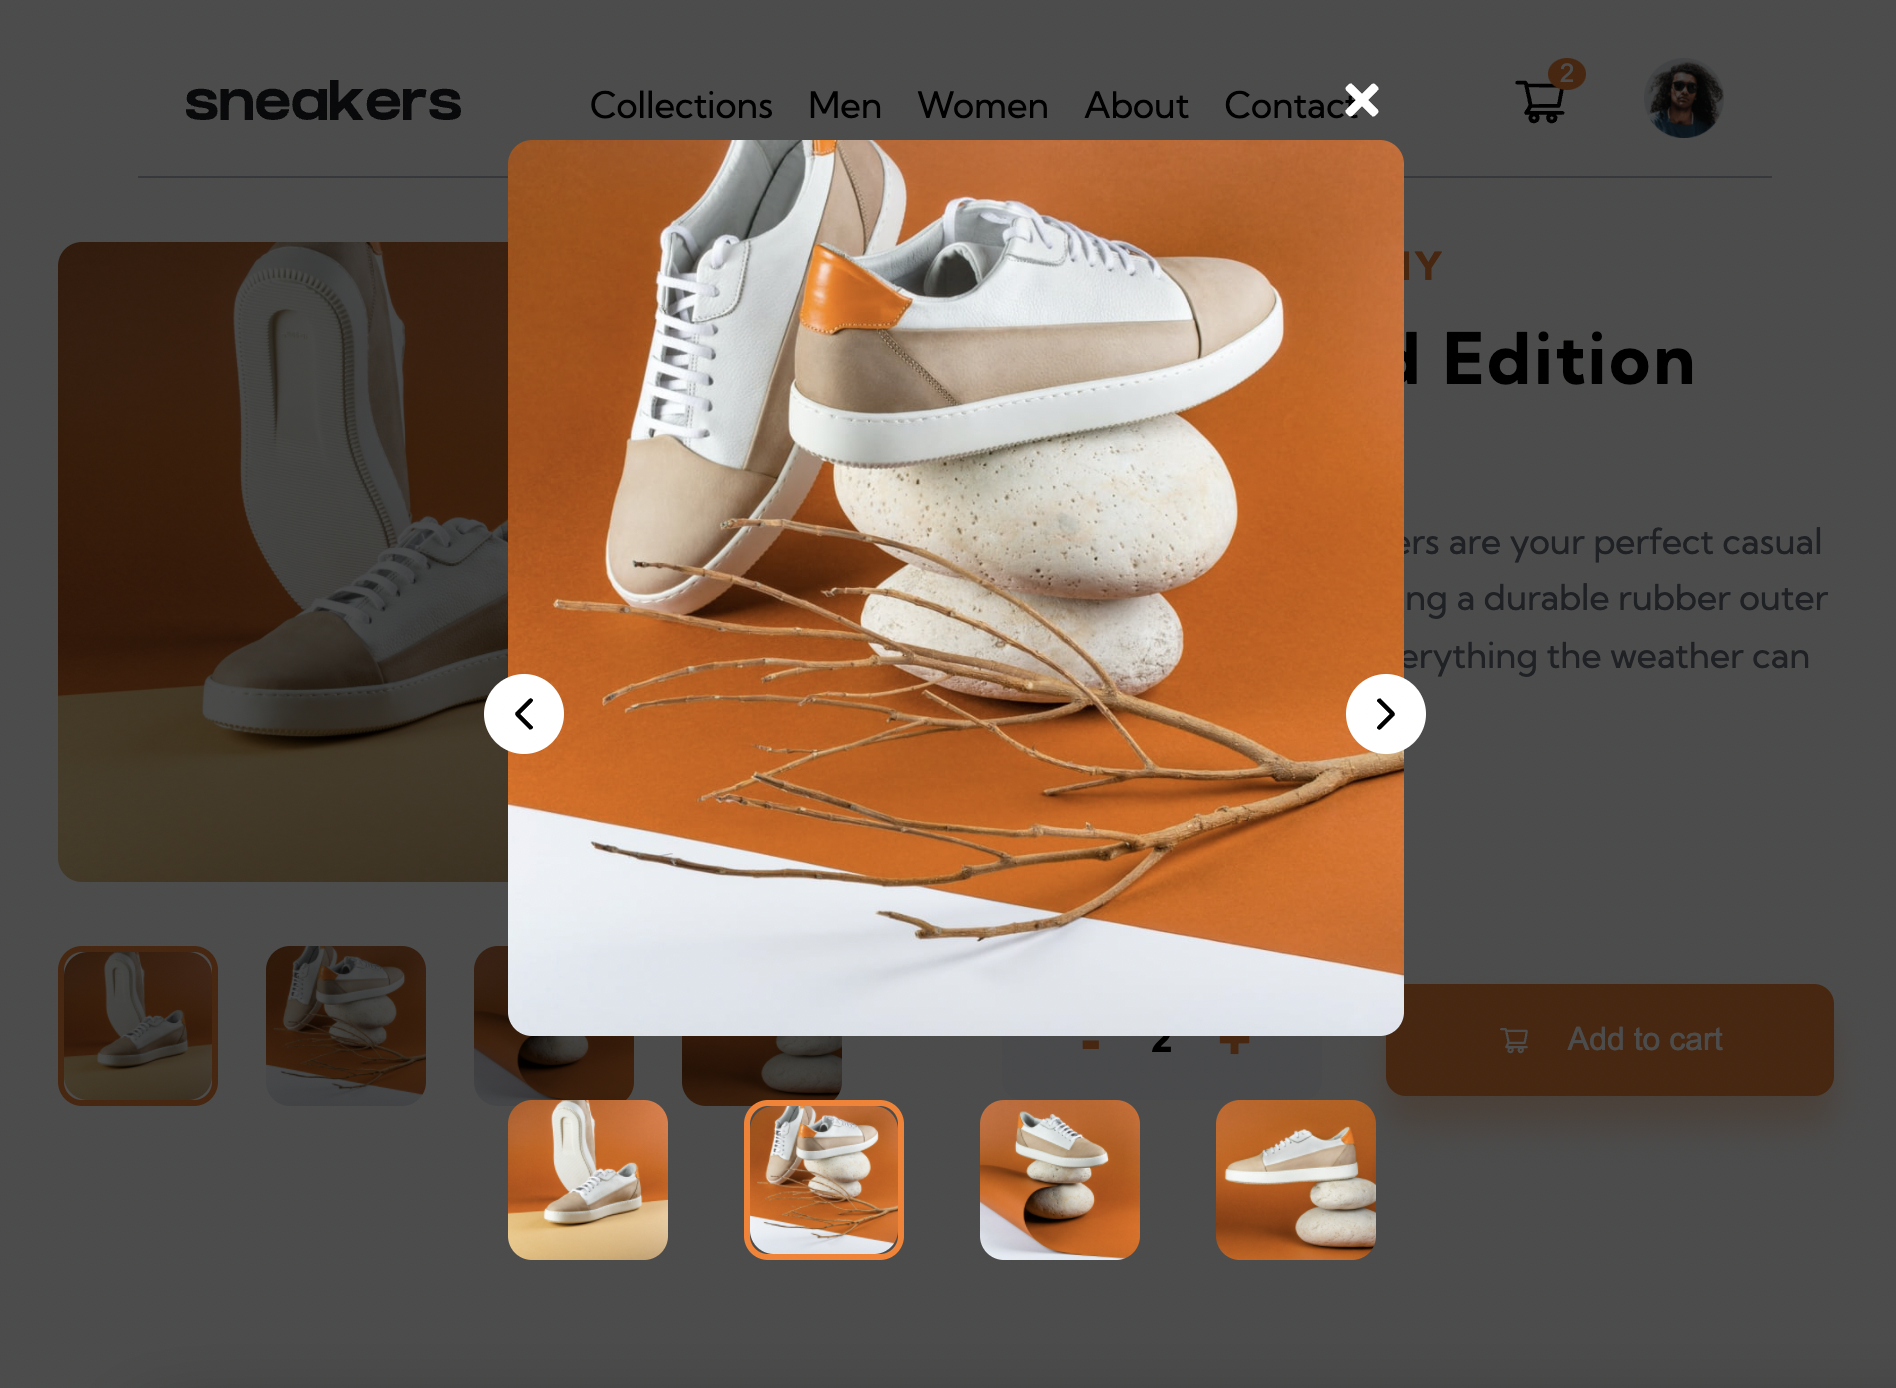
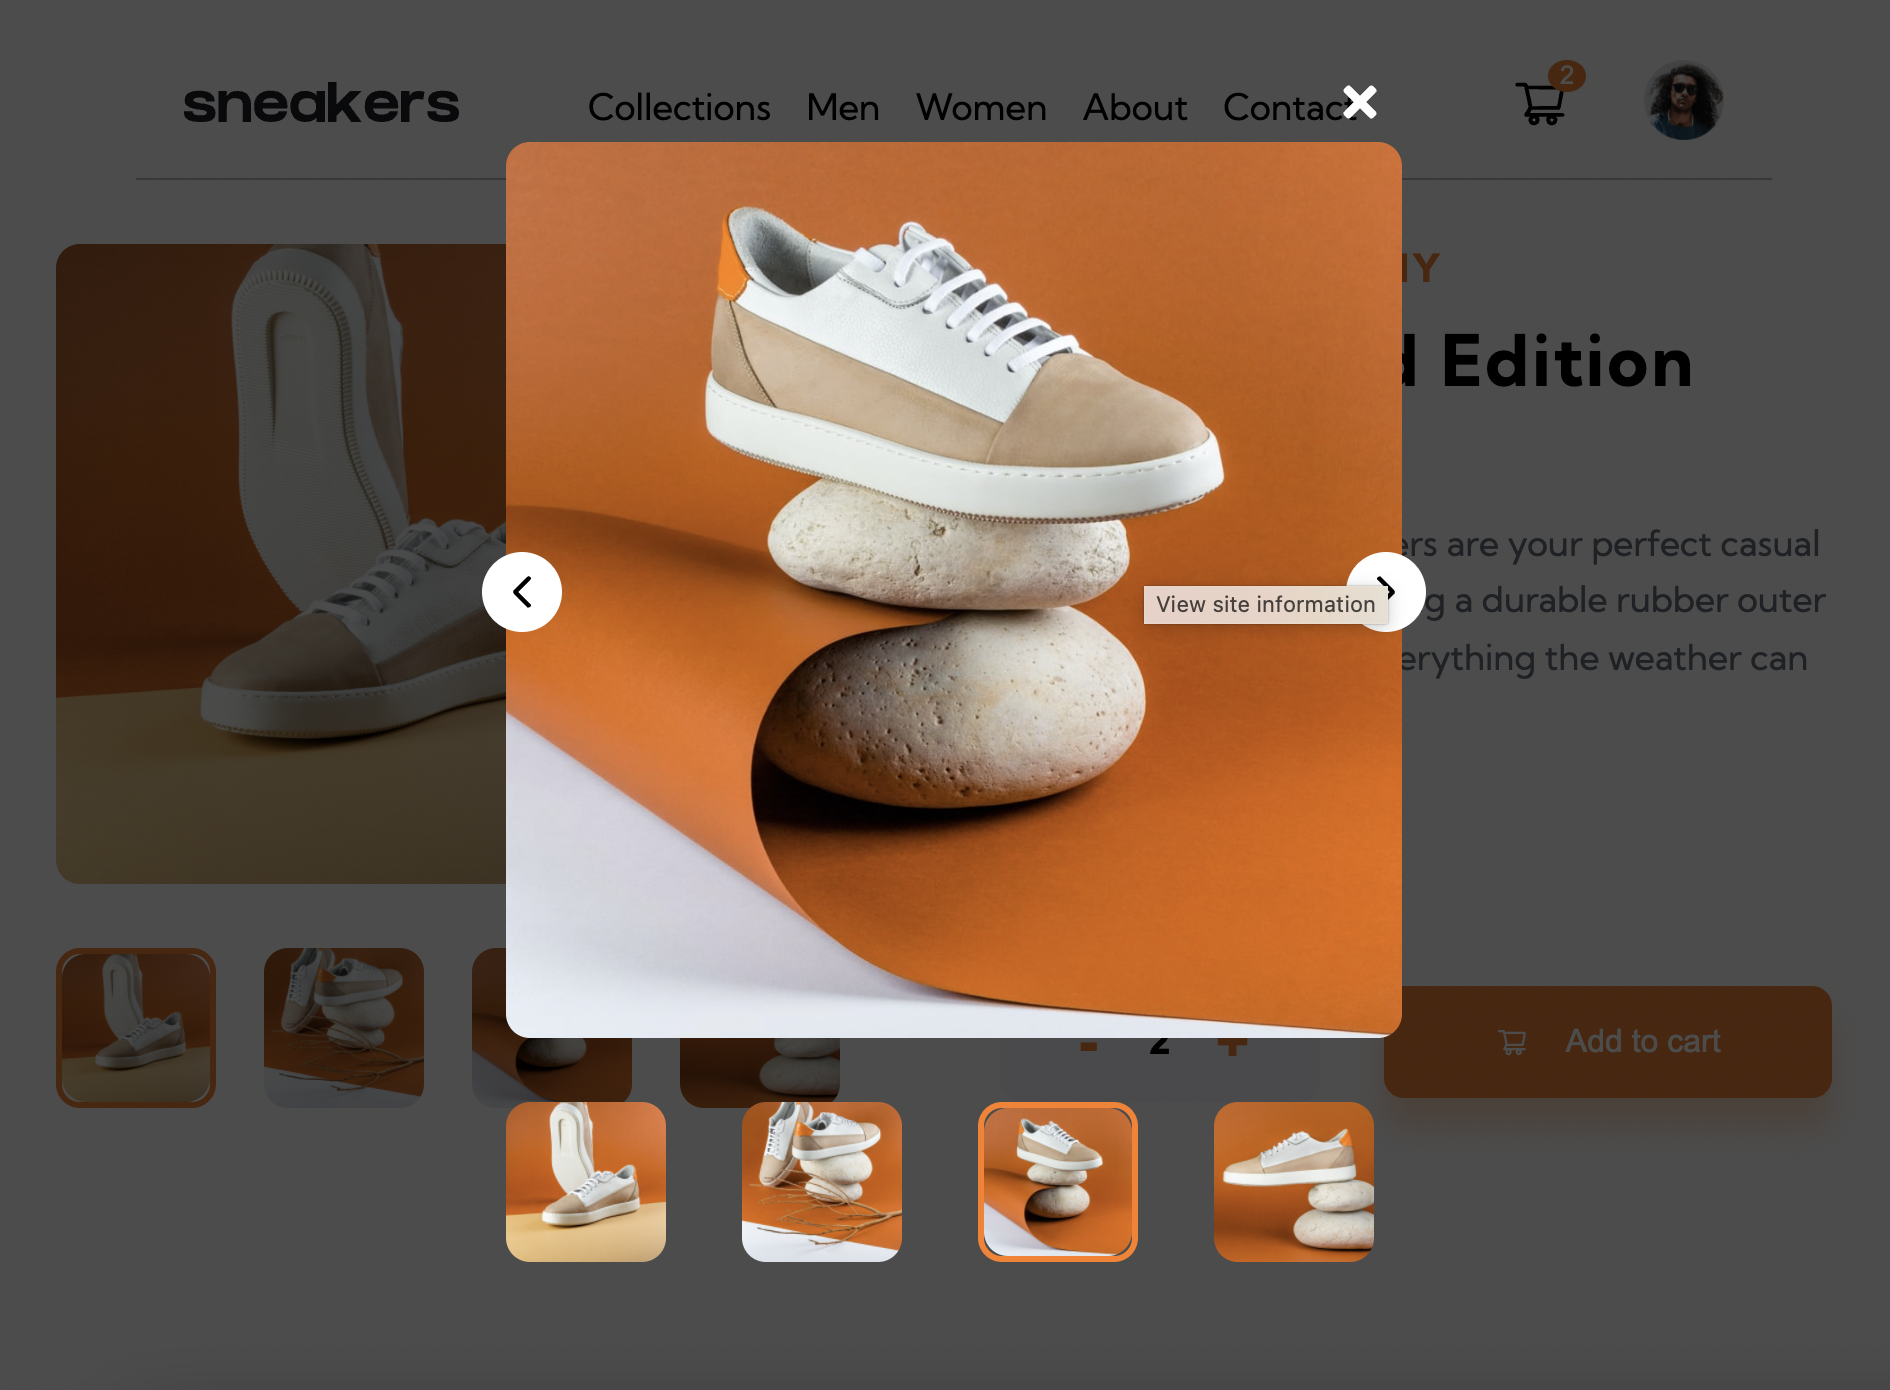
readme images- 2d try

diff --git a/src/components/LightboxGallery.js b/src/components/LightboxGallery.js
@@ -40,7 +40,10 @@ const LightboxGallery = () => {
             {/* the gallery part from GalleryBigScreen with added left/right arrow from Gallery */}
             <article className='gallery-big-screen-images-container lightbox-gallery-image-container'>
               {/* arrow */}
-              <div className='slider-arrow-left' onClick={prevImage}>
+              <div
+                className='slider-arrow-left lightbox-arrow-left'
+                onClick={prevImage}
+              >
                 <IoIosArrowBack />
               </div>
               <img
@@ -70,7 +73,10 @@ const LightboxGallery = () => {
                 })}
               </div>
               {/* arrow */}
-              <div className='slider-arrow-right' onClick={nextImage}>
+              <div
+                className='slider-arrow-right lightbox-arrow-right'
+                onClick={nextImage}
+              >
                 <IoIosArrowForward />
               </div>
             </article>

diff --git a/src/index.css b/src/index.css
@@ -591,6 +591,7 @@ Shopping Cart Container
 Lightbox Gallery
 ===============
 */
+/* visible only on big screen */
 .lightbox-gallery-container {
   display: none;
 }
@@ -624,5 +625,9 @@ Lightbox Gallery
   .lightbox-main-img {
     width: 28rem;
     height: 28rem;
+  }
+  .lightbox-arrow-left,
+  .lightbox-arrow-right {
+    top: 38%;
   }
 }
